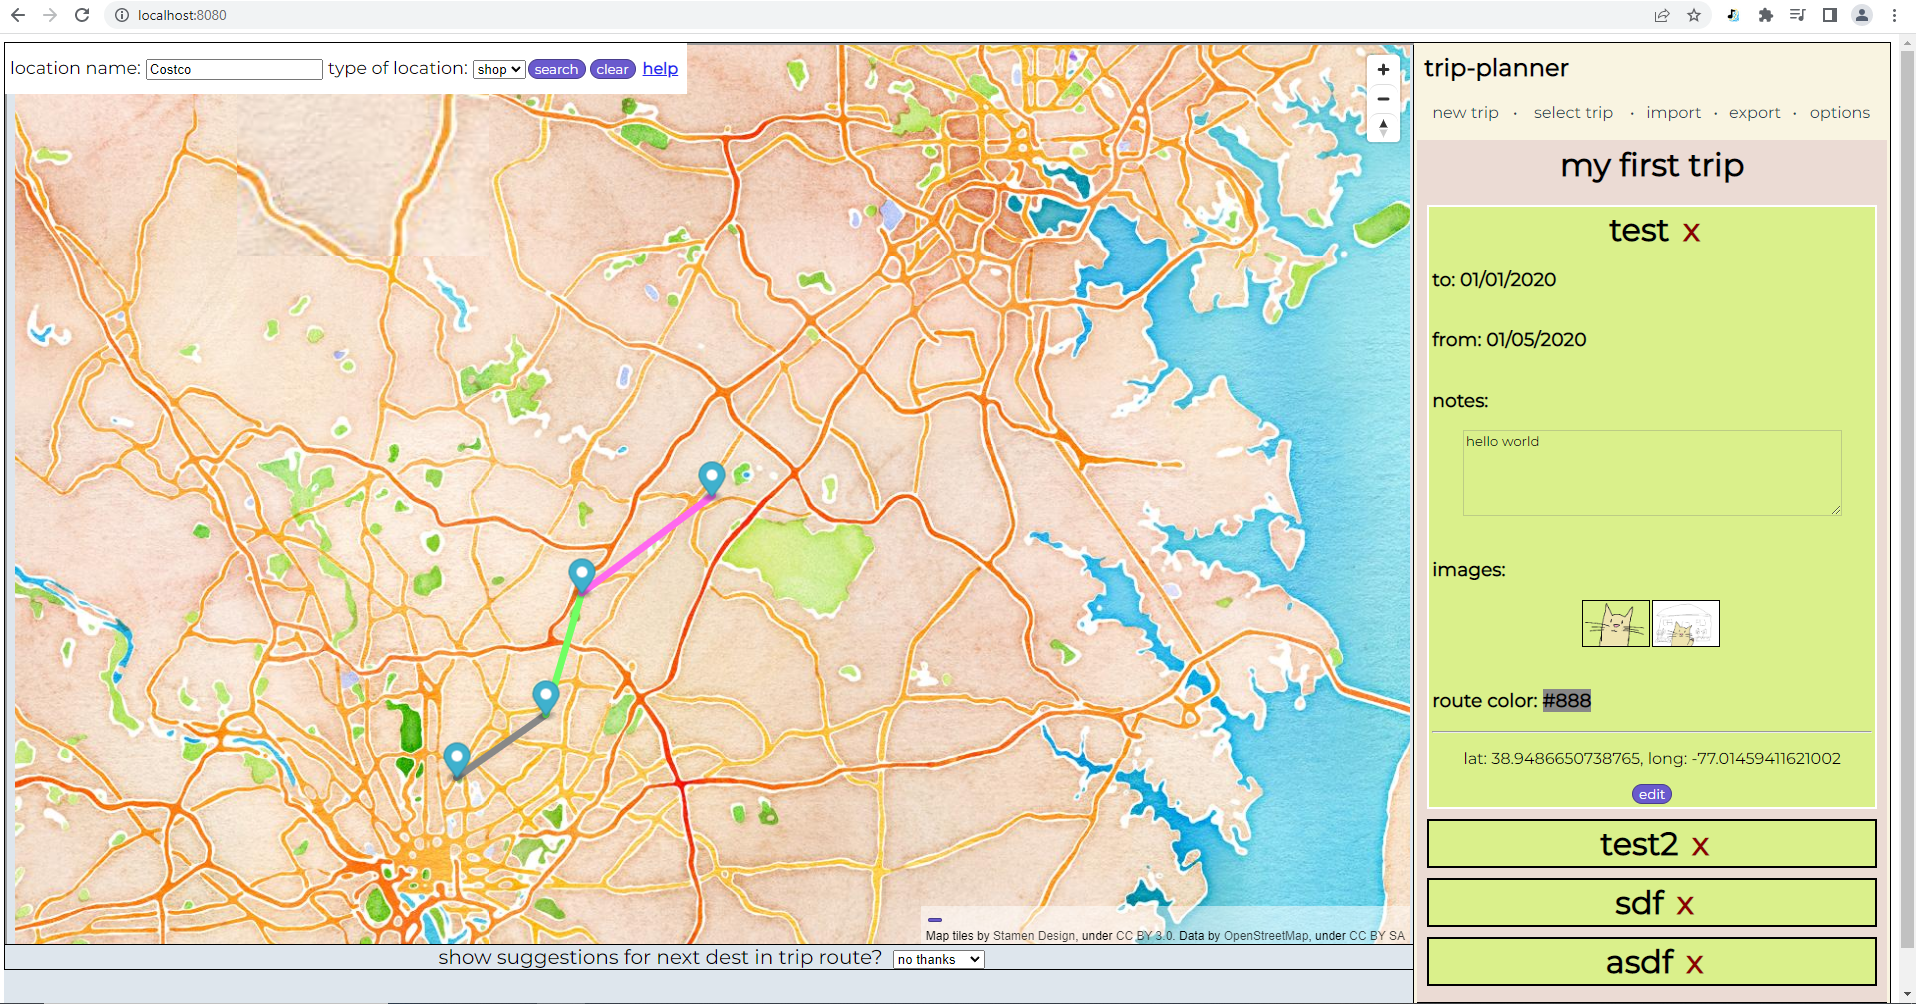
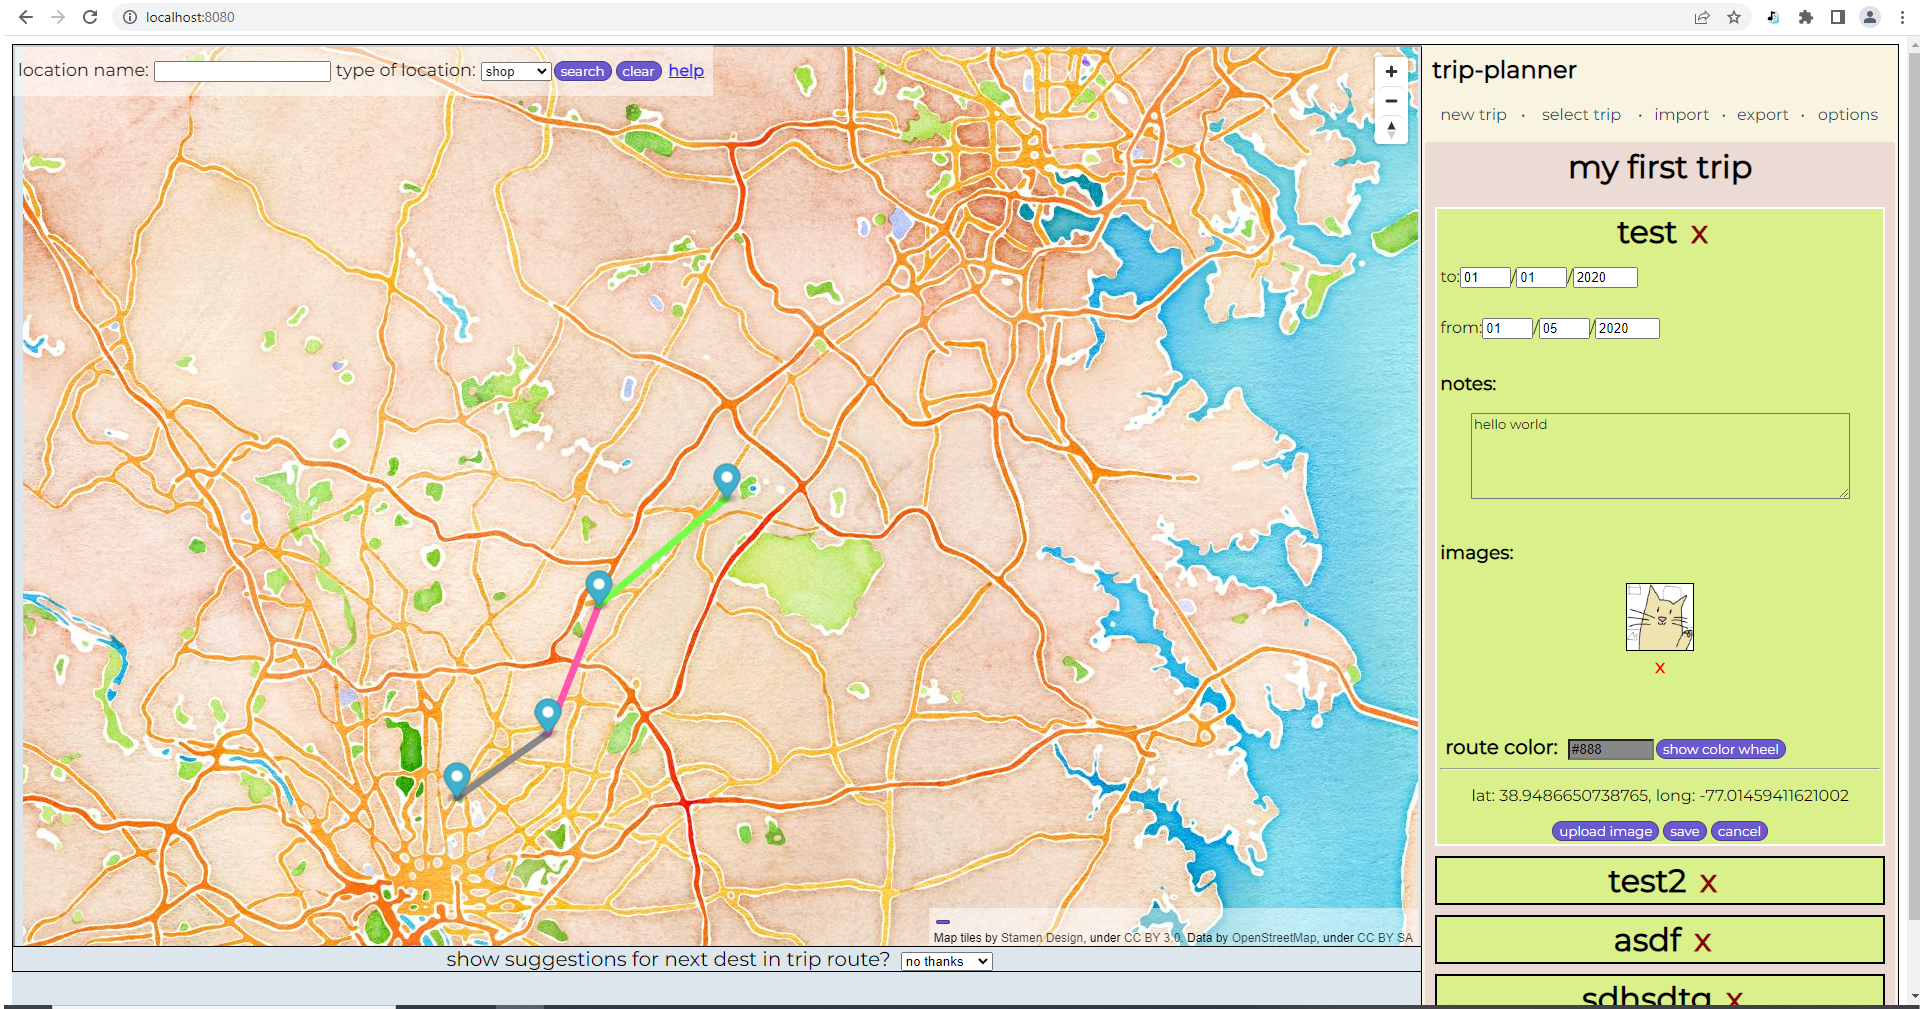
added new overpass api key for location search, made a couple style edits

diff --git a/src/components/TripRoute.vue b/src/components/TripRoute.vue
@@ -10,7 +10,9 @@
                     
                     <label for="typeOfLocation"> type of location: </label>
                     <select id="typeOfLocation">
-                        <option> shop </option>
+                        <option v-for="(key, index) in overpassApiKeys" v-bind:key="'option_overpass_key_' + index">  
+                            {{ key }}
+                        </option>
                     </select>
                     
                     <button class="searchLocationButton" @click="searchLocationWithOverpass"> search </button>
@@ -108,6 +110,12 @@ const TripRouteMapProps = Vue.extend({
 export default class TripRouteMap extends TripRouteMapProps {
 
     showSuggestedNextHops = false;
+    
+    // e.g. https://wiki.openstreetmap.org/wiki/Key:amenity
+    overpassApiKeys: string[] = [
+        "shop",
+        "amenity",
+    ];
 
     created(): void {
         this.$watch('listOfDest', (newVal: Array<Destination>) => {
@@ -199,8 +207,9 @@ export default class TripRouteMap extends TripRouteMapProps {
         }
     }
     
-    // TODO: use this function to search for location
+    // use this function to search for location via the Overpass API
     // TODO: allow user to input a long and lat to search around?
+    // TODO: if we get Way elements in the response, can we match to a Node element? compare with results using https://overpass-turbo.eu/
     searchLocationWithOverpass(): void {
         const locationInput = (document.getElementById('nameOfLocation') as HTMLInputElement).value;
 
@@ -226,7 +235,7 @@ export default class TripRouteMap extends TripRouteMapProps {
     
     async showHelpModal(): Promise<void> {
         const modal = new Modal();
-        await modal.createMessageModal(`This feature allows you to search for a certain location by name using the Overpass API within a 20000m radius of the last destination in your list. Currently it's just for shops (e.g. Costco, Safeway, etc.) and only serves as a minimal example but hopefully more to come eventually!`);
+        await modal.createMessageModal(`This feature allows you to search for a certain location by name using the Overpass API within a 20000m radius of the last destination in your list. Currently you can only query for shops (e.g. Costco, Safeway, etc.) or amenities (e.g. McDonald's, see https://wiki.openstreetmap.org/wiki/Key:amenity) but hopefully more to come eventually!`);
     }
 
     _handleIframeLogs(evt: Event): void {
@@ -335,7 +344,7 @@ label {
     top: 0;
     left: 0;
     z-index: 100;
-    background-color: var(--white);
+    background-color: var(--transparent-white);
 }
 
 #searchLocationBar label {

diff --git a/src/components/Destination.vue b/src/components/Destination.vue
@@ -322,6 +322,7 @@ export default Vue.extend({
             imageDiv.style.width = "100%";
             imageDiv.style.textAlign = "center";
             imageDiv.style.overflow = "scroll";
+            imageDiv.style.zIndex = "1010";
 
             document.body.style.overflow = "hidden";
 
@@ -331,6 +332,7 @@ export default Vue.extend({
                 imageDiv?.parentNode?.removeChild(imageDiv);
                 document.body.style.overflow = "visible";
             });
+            enlargedImage.style.marginTop = "1%";
 
             if(document.body.clientHeight < enlargedImage.height ||
                 document.body.clientWidth < enlargedImage.width) {

diff --git a/src/variables.css b/src/variables.css
@@ -11,4 +11,5 @@
     --dark-slate-blue: #483d8b;
     --purple: #6a5acd;
     --dark-purple: #5541cc;
+    --transparent-white: rgba(255, 255, 255, 0.5);
 }
